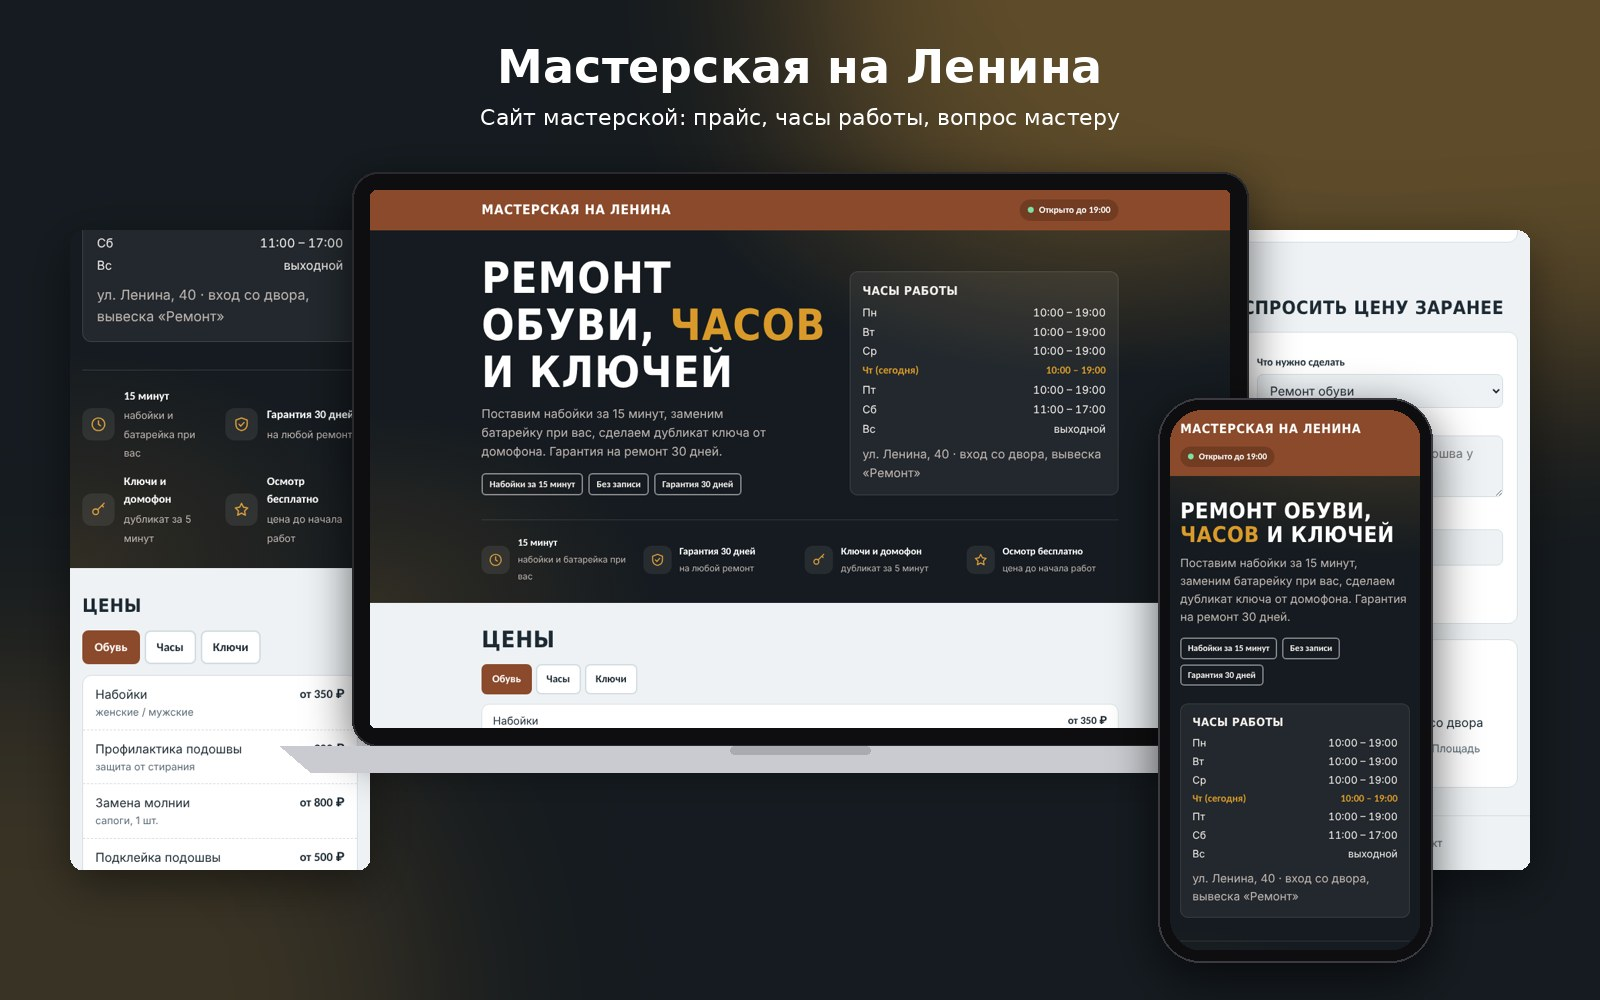
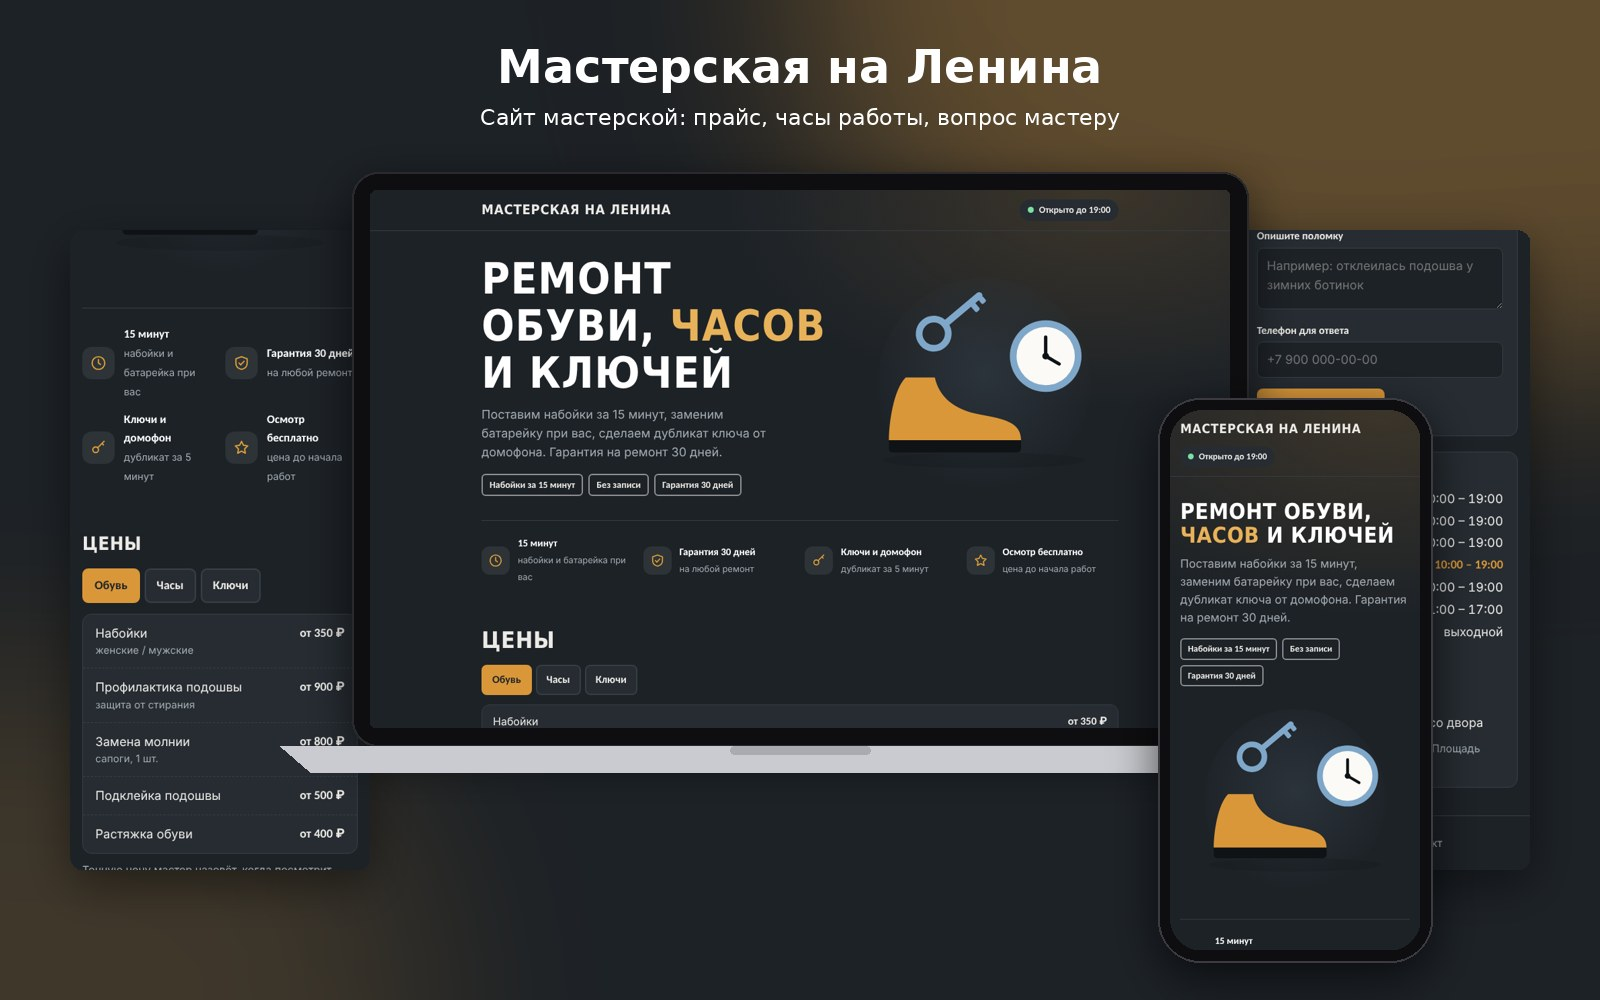
Одна тема на всю страницу, новые иллюстрации
Claude-Session: https://claude.ai/code/session_01JFoXaW88EfvuPr2HYJzWZW

diff --git a/remont/index.html b/remont/index.html
@@ -10,15 +10,13 @@
 <style>
 /* Layout: вывеска мастерской — шапка со статусом «открыто», прайс с вкладками, как сдать вещь, адрес, заявка */
 :root{
-  --bg:#EEF2F4; --surface:#FFFFFF; --fg:#1D2A33; --muted:#5B6B76; --line:#D3DCE1;
-  --accent:#8B4A2B; --accent-ink:#FFFFFF; --amber:#D99A2B; --ok:#2E7D4F;
+  --bg:#1D2227; --surface:#262C32; --fg:#ECEAE6; --muted:#A3ACB3; --line:#353D45;
+  --accent:#D9973A; --accent-ink:#1D2227; --amber:#E8B25A; --ok:#79C59A;
   --display:"Oswald","Arial Narrow",Impact,sans-serif;
   --body:"PT Sans",system-ui,-apple-system,"Segoe UI",sans-serif;
-  color-scheme:light;
+  color-scheme:dark;
 }
-@media (prefers-color-scheme:dark){:root{
-  --bg:#141B20; --surface:#1C252C; --fg:#E8EEF1; --muted:#9CABB5; --line:#2C3943;
-  --accent:#D9895F; --accent-ink:#141B20; --amber:#F0B954; --ok:#6CC495; color-scheme:dark}}
+
 *{box-sizing:border-box}
 html,body{margin:0}
 body{background:var(--bg);color:var(--fg);font-family:var(--body);font-size:16px;line-height:1.55}
@@ -26,11 +24,11 @@ body{background:var(--bg);color:var(--fg);font-family:var(--body);font-size:16px
 h1,h2,h3{font-family:var(--display);font-weight:600;line-height:1.1;margin:0;text-transform:uppercase;letter-spacing:.02em;text-wrap:balance}
 h2{font-size:clamp(24px,4vw,34px)}
 p{margin:0}
-.demo{background:var(--fg);color:var(--bg);text-align:center;font-size:13px;padding-block:6px}
-.sign{background:var(--accent);color:var(--accent-ink)}
+.demo{background:#111518;color:#A3ACB3;text-align:center;font-size:13px;padding-block:6px}
+.sign{background:transparent;color:var(--fg);border-bottom:1px solid var(--line)}
 .sign .wrap{display:flex;justify-content:space-between;align-items:center;gap:12px;flex-wrap:wrap;padding-block:14px}
 .sign .logo{font-family:var(--display);font-size:20px;text-transform:uppercase;letter-spacing:.04em}
-.status{display:inline-flex;align-items:center;gap:8px;font-weight:700;font-size:14px;background:rgba(0,0,0,.18);border-radius:999px;padding:5px 12px}
+.status{display:inline-flex;align-items:center;gap:8px;font-weight:700;font-size:14px;background:var(--surface);border-radius:999px;padding:5px 12px}
 .status i{width:9px;height:9px;border-radius:50%;background:var(--amber)}
 .status.open i{background:#7BE0A4}
 .hero{padding-block:36px 28px;display:grid;grid-template-columns:1.3fr 1fr;gap:28px;align-items:end}
@@ -68,8 +66,7 @@ footer{padding-block:24px;color:var(--muted);font-size:14px;border-top:1px solid
 @media (max-width:720px){.hero,.two{grid-template-columns:1fr}}
 
 /* тёмный первый экран */
-.band{position:relative;color:#F4EFEC;background:radial-gradient(900px 480px at 85% -10%,#E2A33A55,transparent 70%),radial-gradient(600px 400px at 0% 100%,#E2A33A22,transparent 70%),#151B20;
-  --fg:#F4EFEC;--muted:#C2B8B3;--line:rgba(255,255,255,.14);--surface:rgba(255,255,255,.06);overflow:hidden}
+.band{position:relative;background:radial-gradient(800px 460px at 85% 0%,rgba(217,151,58,.16),transparent 70%),var(--bg);color:var(--fg)}
 .band a.btn.ghost,.band .btn.ghost{color:#F4EFEC;border-color:rgba(255,255,255,.35);background:transparent}
 .trust{display:grid;grid-template-columns:repeat(4,minmax(0,1fr));gap:14px;border-top:1px solid var(--line);padding-block:22px 28px;margin-top:8px}
 .trust div{display:flex;gap:12px;align-items:center;min-width:0}
@@ -84,6 +81,7 @@ footer{padding-block:24px;color:var(--muted);font-size:14px;border-top:1px solid
 .band .hours .today{color:var(--amber)}
 .band .hero h1{color:#fff}.band .hero h1 span{color:var(--amber)}
 .tool{position:absolute;right:-40px;top:40px;width:420px;opacity:.07;pointer-events:none}
+.art .illus{width:100%;max-width:440px;display:block;margin:0 auto}
 </style>
 </head>
 <body>
@@ -101,11 +99,16 @@ footer{padding-block:24px;color:var(--muted);font-size:14px;border-top:1px solid
       <p>Поставим набойки за 15 минут, заменим батарейку при вас, сделаем дубликат ключа от домофона. Гарантия на ремонт 30 дней.</p>
       <div class="tags"><span>Набойки за 15 минут</span><span>Без записи</span><span>Гарантия 30 дней</span></div>
     </div>
-    <div class="card">
-      <h3 style="font-size:18px;margin-bottom:10px">Часы работы</h3>
-      <div class="hours" id="hours"></div>
-      <p class="note">ул. Ленина, 40 · вход со двора, вывеска «Ремонт»</p>
-    </div>
+    <div class="art"><svg class="illus" viewBox="0 0 480 400" xmlns="http://www.w3.org/2000/svg" aria-hidden="true">
+<defs><radialGradient id="g523757" cx="50%" cy="45%" r="55%"><stop offset="0" stop-color="#2B333B" stop-opacity="1"/><stop offset="1" stop-color="#2B333B" stop-opacity="0"/></radialGradient></defs>
+<circle cx="240" cy="200" r="190" fill="url(#g523757)"/>
+<ellipse cx="240" cy="336" rx="180" ry="14" fill="#0F1316" opacity=".2"/>
+<path d="M70 300c0-30 8-90 30-112h52c8 36 36 58 80 66c44 8 74 14 74 46z" fill="#D9973A"/>
+<path d="M70 300h236v14q0 8-8 8h-220q-8 0-8-8z" fill="#0F1316"/>
+<circle cx="350" cy="150" r="64" fill="#7FA7C9"/><circle cx="350" cy="150" r="52" fill="#FBFAF7"/>
+<path d="M350 150v-34M350 150l24 14" stroke="#0F1316" stroke-width="6" stroke-linecap="round"/><circle cx="350" cy="150" r="6" fill="#0F1316"/>
+<g transform="rotate(-40 150 110)"><circle cx="150" cy="110" r="26" fill="none" stroke="#7FA7C9" stroke-width="12"/><rect x="172" y="104" width="90" height="12" rx="6" fill="#7FA7C9"/>
+<rect x="232" y="114" width="10" height="16" rx="3" fill="#7FA7C9"/><rect x="250" y="114" width="10" height="12" rx="3" fill="#7FA7C9"/></g></svg></div>
   </div>
   <div class="trust"><div><i><svg viewBox="0 0 24 24"><circle cx="12" cy="12" r="9"/><path d="M12 7v5l3 2"/></svg></i><p style="margin:0"><b>15 минут</b><span>набойки и батарейка при вас</span></p></div><div><i><svg viewBox="0 0 24 24"><path d="M12 3l8 3v6c0 5-3.5 8-8 9-4.5-1-8-4-8-9V6z"/><path d="M8.5 12l2.5 2.5 4.5-5"/></svg></i><p style="margin:0"><b>Гарантия 30 дней</b><span>на любой ремонт</span></p></div><div><i><svg viewBox="0 0 24 24"><circle cx="8" cy="15" r="4"/><path d="M11 12l9-9M17 6l2 2"/></svg></i><p style="margin:0"><b>Ключи и домофон</b><span>дубликат за 5 минут</span></p></div><div><i><svg viewBox="0 0 24 24"><path d="M12 3l2.7 5.6 6.1.9-4.4 4.3 1 6.1L12 17l-5.4 2.9 1-6.1L3.2 9.5l6.1-.9z"/></svg></i><p style="margin:0"><b>Осмотр бесплатно</b><span>цена до начала работ</span></p></div></div>
 </div></div>
@@ -140,6 +143,8 @@ footer{padding-block:24px;color:var(--muted);font-size:14px;border-top:1px solid
       <div class="done" id="done" hidden></div>
     </form>
     <div class="card">
+      <h3 style="font-size:18px">Часы работы</h3>
+      <div class="hours" id="hours" style="margin-block:10px 16px"></div>
       <h3 style="font-size:18px">Контакты</h3>
       <p style="margin-top:8px">Телефон: +7 900 000-00-00 (вымышленный)</p>
       <p>Адрес: ул. Ленина, 40, вход со двора</p>

diff --git a/tort/index.html b/tort/index.html
@@ -16,14 +16,8 @@
   --display:"Unbounded","Arial Black",system-ui,sans-serif;
   --body:"Manrope",system-ui,-apple-system,"Segoe UI",sans-serif;
 }
-@media (prefers-color-scheme:dark){:root:not([data-theme="light"]){
-  --bg:#1C1419; --surface:#271C23; --fg:#F5EAF0; --muted:#B9A3B0;
-  --accent:#F06292; --accent-ink:#1C1419; --pista:#9CC488; --line:#3A2B34;
-  --cream:#3A2731; --choc:#8A5A44; color-scheme:dark}}
-:root[data-theme="dark"]{
-  --bg:#1C1419; --surface:#271C23; --fg:#F5EAF0; --muted:#B9A3B0;
-  --accent:#F06292; --accent-ink:#1C1419; --pista:#9CC488; --line:#3A2B34;
-  --cream:#3A2731; --choc:#8A5A44; color-scheme:dark}
+
+
 *{box-sizing:border-box}
 html,body{margin:0}
 body{background:var(--bg);color:var(--fg);font-family:var(--body);font-size:16px;line-height:1.55}
@@ -40,7 +34,7 @@ header.top{padding-block:16px;display:flex;justify-content:space-between;align-i
 .btn:focus-visible,input:focus-visible,select:focus-visible{outline:3px solid var(--pista);outline-offset:2px}
 .btn.ghost{background:transparent;color:var(--fg);border:2px solid var(--line)}
 .hero{display:grid;grid-template-columns:1.2fr 1fr;gap:32px;align-items:center;padding-block:40px 40px}
-.hero h1{color:#fff}
+
 .hero h1{font-size:clamp(32px,6vw,58px)}
 .hero h1 em{font-style:normal;color:var(--accent)}
 .hero p.lead{color:var(--muted);font-size:18px;margin-top:16px;max-width:34ch}
@@ -97,16 +91,16 @@ footer{border-top:1px solid var(--line);padding-block:24px;color:var(--muted);fo
 @keyframes bob{50%{transform:translateY(-3px)}}
 
 /* тёмный первый экран */
-.band{position:relative;color:#F4EFEC;background:radial-gradient(900px 480px at 85% -10%,#E2457F55,transparent 70%),radial-gradient(600px 400px at 0% 100%,#E2457F22,transparent 70%),#1B1216;
-  --fg:#F4EFEC;--muted:#C2B8B3;--line:rgba(255,255,255,.14);--surface:rgba(255,255,255,.06);overflow:hidden}
-.band a.btn.ghost,.band .btn.ghost{color:#F4EFEC;border-color:rgba(255,255,255,.35);background:transparent}
+.band{position:relative;background:radial-gradient(800px 460px at 85% 0%,#F7D3E1,transparent 70%),var(--bg);color:var(--fg);--surface:#FFFFFF}
+.band .btn.ghost{color:var(--fg);border-color:var(--line);background:#fff}
 .trust{display:grid;grid-template-columns:repeat(4,minmax(0,1fr));gap:14px;border-top:1px solid var(--line);padding-block:22px 28px;margin-top:8px}
 .trust div{display:flex;gap:12px;align-items:center;min-width:0}
-.trust i{flex:none;width:42px;height:42px;border-radius:12px;background:rgba(255,255,255,.08);display:grid;place-items:center}
+.trust i{flex:none;width:42px;height:42px;border-radius:12px;background:#fff;box-shadow:0 4px 14px rgba(194,24,91,.10);display:grid;place-items:center}
 .trust svg{width:22px;height:22px;fill:none;stroke:#E2457F;stroke-width:1.8;stroke-linecap:round;stroke-linejoin:round}
-.trust b{display:block;font-size:15px;color:#fff}
+.trust b{display:block;font-size:15px;color:var(--fg)}
 .trust span{font-size:13px;color:var(--muted)}
 @media (max-width:720px){.trust{grid-template-columns:repeat(2,minmax(0,1fr))}}
+.art .illus{width:100%;max-width:460px;display:block;margin:0 auto}
 </style>
 
 </head>
@@ -133,12 +127,20 @@ footer{border-top:1px solid var(--line);padding-block:24px;color:var(--muted);fo
         <div><b>5 начинок</b>на выбор</div>
       </div>
     </div>
-    <div class="cake" aria-hidden="true">
-      <div class="tier t3"><span class="drip"></span><i class="berry" style="left:20px"></i><i class="berry" style="left:46px"></i><i class="berry" style="left:72px"></i></div>
-      <div class="tier t2"><span class="drip"></span><i class="berry" style="left:24px"></i><i class="berry" style="left:128px"></i></div>
-      <div class="tier t1"><span class="drip"></span></div>
-      <div class="plate"></div>
-    </div>
+    <div class="art"><svg class="illus" viewBox="0 0 480 400" xmlns="http://www.w3.org/2000/svg" aria-hidden="true">
+<defs><radialGradient id="g917125" cx="50%" cy="45%" r="55%"><stop offset="0" stop-color="#F6E3EA" stop-opacity="1"/><stop offset="1" stop-color="#F6E3EA" stop-opacity="0"/></radialGradient></defs>
+<circle cx="240" cy="200" r="190" fill="url(#g917125)"/>
+<ellipse cx="240" cy="338" rx="150" ry="16" fill="#2B1D29" opacity=".18"/>
+<rect x="96" y="318" width="288" height="14" rx="7" fill="#E9E2DE"/>
+<rect x="120" y="226" width="240" height="96" rx="16" fill="#FFF7F2"/>
+<path d="M120 238q20 26 40 0t40 0t40 0t40 0t40 0t40 0v-12h-240z" fill="#5A3426"/>
+<rect x="120" y="296" width="240" height="26" rx="8" fill="#C2185B" opacity=".9"/>
+<rect x="150" y="150" width="180" height="84" rx="14" fill="#C2185B"/>
+<path d="M150 160q18 22 36 0t36 0t36 0t36 0t36 0v-10h-180z" fill="#5A3426"/>
+<rect x="190" y="104" width="100" height="54" rx="12" fill="#FFF7F2"/>
+<circle cx="205" cy="108" r="9" fill="#C2185B"/><circle cx="202" cy="105" r="2.5" fill="#fff" opacity=".6"/><circle cx="232" cy="100" r="9" fill="#C2185B"/><circle cx="229" cy="97" r="2.5" fill="#fff" opacity=".6"/><circle cx="259" cy="104" r="9" fill="#C2185B"/><circle cx="256" cy="101" r="2.5" fill="#fff" opacity=".6"/><circle cx="285" cy="110" r="9" fill="#C2185B"/><circle cx="282" cy="107" r="2.5" fill="#fff" opacity=".6"/><rect x="222" y="66" width="8" height="34" rx="3" fill="#6E9A5C"/><path d="M226 52c6 6 4 12 0 14c-4-2-6-8 0-14z" fill="#F6B44A"/><rect x="248" y="66" width="8" height="34" rx="3" fill="#6E9A5C"/><path d="M252 52c6 6 4 12 0 14c-4-2-6-8 0-14z" fill="#F6B44A"/>
+<path d="M392 120l6 14 14 6-14 6-6 14-6-14-14-6 14-6z" fill="#6E9A5C" opacity=".9"/>
+<path d="M92 170l4 9 9 4-9 4-4 9-4-9-9-4 9-4z" fill="#C2185B" opacity=".7"/></svg></div>
   </div>
   <div class="trust"><div><i><svg viewBox="0 0 24 24"><path d="M5 19c0-8 6-14 15-14 0 9-6 15-14 15"/><path d="M5 19l7-7"/></svg></i><p style="margin:0"><b>Натуральный состав</b><span>масло, сливки, ягоды</span></p></div><div><i><svg viewBox="0 0 24 24"><circle cx="12" cy="12" r="9"/><path d="M12 7v5l3 2"/></svg></i><p style="margin:0"><b>Заказ за 3 дня</b><span>или срочно по договорённости</span></p></div><div><i><svg viewBox="0 0 24 24"><path d="M3 6h11v9H3zM14 9h4l3 3v3h-7"/><circle cx="7" cy="17" r="2"/><circle cx="17" cy="17" r="2"/></svg></i><p style="margin:0"><b>Доставка 300 ₽</b><span>по городу в день праздника</span></p></div><div><i><svg viewBox="0 0 24 24"><path d="M4 5h16v11H9l-5 4z"/></svg></i><p style="margin:0"><b>Ответ за час</b><span>в Telegram и WhatsApp</span></p></div></div>
 </div></div>

diff --git a/nogti/index.html b/nogti/index.html
@@ -10,15 +10,13 @@
 <style>
 /* Layout: премиальная студия — крупная типографика, палитра оттенков лака, услуги, онлайн-запись по шагам, работы, мастера, FAQ */
 :root{
-  --bg:#F6F3F1; --surface:#FFFFFF; --fg:#2B2230; --muted:#6F6573; --line:#E4DCE0;
-  --accent:#7A3E6E; --accent-ink:#FFFFFF; --sage:#8FA487; --soft:#EFE6EC;
+  --bg:#1F1A21; --surface:#29222C; --fg:#F2EAF0; --muted:#B7A8B3; --line:#3A3140;
+  --accent:#D48AC0; --accent-ink:#1F1A21; --sage:#9FBF97; --soft:#342A37;
   --display:"Cormorant","Georgia","Times New Roman",serif;
   --body:"Manrope",system-ui,-apple-system,"Segoe UI",sans-serif;
-  color-scheme:light;
+  color-scheme:dark;
 }
-@media (prefers-color-scheme:dark){:root{
-  --bg:#1A1519; --surface:#241D23; --fg:#F1E9EE; --muted:#B3A6AF; --line:#3A2F38;
-  --accent:#D59BC7; --accent-ink:#1A1519; --sage:#A9BFA1; --soft:#34262F; color-scheme:dark}}
+
 *{box-sizing:border-box}
 html,body{margin:0}
 html{scroll-behavior:smooth}
@@ -30,7 +28,7 @@ h2{font-size:clamp(34px,5.5vw,52px)}
 h2 em,h1 em{font-style:italic;color:var(--accent)}
 p{margin:0}
 .eyebrow{font-size:12px;text-transform:uppercase;letter-spacing:.14em;color:var(--muted);font-weight:700}
-.demo{background:var(--fg);color:var(--bg);text-align:center;font-size:13px;padding-block:6px}
+.demo{background:#151116;color:#B7A8B3;text-align:center;font-size:13px;padding-block:6px}
 nav.top{position:sticky;top:env(safe-area-inset-top,0px);z-index:5;background:color-mix(in srgb,var(--bg) 88%,transparent);backdrop-filter:blur(8px);border-bottom:1px solid var(--line)}
 nav.top .wrap{display:flex;justify-content:space-between;align-items:center;gap:12px;padding-block:12px}
 .logo{font-family:var(--display);font-size:24px;font-weight:600}
@@ -126,8 +124,7 @@ footer{border-top:1px solid var(--line);padding-block:24px;color:var(--muted);fo
 @media (max-width:520px){.fields{grid-template-columns:1fr}.palette{gap:8px}}
 
 /* тёмный первый экран */
-.band{position:relative;color:#F4EFEC;background:radial-gradient(900px 480px at 85% -10%,#D07AB855,transparent 70%),radial-gradient(600px 400px at 0% 100%,#D07AB822,transparent 70%),#1A1319;
-  --fg:#F4EFEC;--muted:#C2B8B3;--line:rgba(255,255,255,.14);--surface:rgba(255,255,255,.06);overflow:hidden}
+.band{position:relative;background:radial-gradient(800px 460px at 85% 0%,rgba(212,138,192,.18),transparent 70%),var(--bg);color:var(--fg)}
 .band a.btn.ghost,.band .btn.ghost{color:#F4EFEC;border-color:rgba(255,255,255,.35);background:transparent}
 .trust{display:grid;grid-template-columns:repeat(4,minmax(0,1fr));gap:14px;border-top:1px solid var(--line);padding-block:22px 28px;margin-top:8px}
 .trust div{display:flex;gap:12px;align-items:center;min-width:0}
@@ -142,6 +139,8 @@ footer{border-top:1px solid var(--line);padding-block:24px;color:var(--muted);fo
 .band .hero h1{color:#fff}.band .hero h1 em{color:#E7A6D6}
 .band .eyebrow{color:#C9B3C2}
 .band .facts b{color:#fff}
+.art .illus{width:100%;max-width:460px;display:block;margin:0 auto}
+.hero>*{min-width:0}
 </style>
 </head>
 <body>
@@ -165,12 +164,19 @@ footer{border-top:1px solid var(--line);padding-block:24px;color:var(--muted);fo
       <div><b>120+</b><span>оттенков в палитре</span></div>
     </div>
   </div>
-  <div class="palette" aria-hidden="true">
-    <div class="bottle" style="background:#7A3E6E"><span>№ 14</span></div>
-    <div class="bottle" style="background:#C98E86"><span>№ 03</span></div>
-    <div class="bottle" style="background:#8FA487"><span>№ 27</span></div>
-    <div class="bottle" style="background:#2B2230;box-shadow:inset 0 0 0 1px rgba(255,255,255,.25)"><span>№ 40</span></div>
-  </div>
+  <div class="art"><svg class="illus" viewBox="0 0 480 400" xmlns="http://www.w3.org/2000/svg" aria-hidden="true">
+<defs><radialGradient id="g993989" cx="50%" cy="45%" r="55%"><stop offset="0" stop-color="#342A37" stop-opacity="1"/><stop offset="1" stop-color="#342A37" stop-opacity="0"/></radialGradient></defs>
+<circle cx="240" cy="200" r="190" fill="url(#g993989)"/>
+<ellipse cx="240" cy="318" rx="170" ry="14" fill="#120E13" opacity=".18"/>
+<rect x="124" y="98" width="28" height="52" rx="6" fill="#120E13"/>
+<path d="M108 162q0-14 14-14h32q14 0 14 14v126q0 12-12 12h-36q-12 0-12-12z" fill="#D48AC0"/>
+<rect x="118" y="170" width="8" height="100" rx="4" fill="#fff" opacity=".35"/><rect x="212" y="68" width="28" height="52" rx="6" fill="#120E13"/>
+<path d="M196 132q0-14 14-14h32q14 0 14 14v156q0 12-12 12h-36q-12 0-12-12z" fill="#9FBF97"/>
+<rect x="206" y="140" width="8" height="130" rx="4" fill="#fff" opacity=".35"/><rect x="300" y="108" width="28" height="52" rx="6" fill="#120E13"/>
+<path d="M284 172q0-14 14-14h32q14 0 14 14v116q0 12-12 12h-36q-12 0-12-12z" fill="#D9A79B"/>
+<rect x="294" y="180" width="8" height="90" rx="4" fill="#fff" opacity=".35"/>
+<circle cx="372" cy="150" r="26" fill="#D48AC0" opacity=".9"/><circle cx="398" cy="196" r="18" fill="#9FBF97"/><circle cx="360" cy="226" r="12" fill="#D9A79B"/>
+<path d="M86 120l5 11 11 5-11 5-5 11-5-11-11-5 11-5z" fill="#9FBF97"/></svg></div>
 </header>
 <div class="wrap"><div class="trust"><div><i><svg viewBox="0 0 24 24"><path d="M12 3l8 3v6c0 5-3.5 8-8 9-4.5-1-8-4-8-9V6z"/><path d="M8.5 12l2.5 2.5 4.5-5"/></svg></i><p style="margin:0"><b>Стерильно</b><span>крафт-пакет вскрываем при вас</span></p></div><div><i><svg viewBox="0 0 24 24"><path d="M12 3l2.7 5.6 6.1.9-4.4 4.3 1 6.1L12 17l-5.4 2.9 1-6.1L3.2 9.5l6.1-.9z"/></svg></i><p style="margin:0"><b>Гарантия 7 дней</b><span>исправим сколы бесплатно</span></p></div><div><i><svg viewBox="0 0 24 24"><circle cx="12" cy="12" r="9"/><path d="M12 7v5l3 2"/></svg></i><p style="margin:0"><b>Запись онлайн</b><span>свободное время сразу видно</span></p></div><div><i><svg viewBox="0 0 24 24"><path d="M12 3v6M12 15v6M3 12h6M15 12h6"/></svg></i><p style="margin:0"><b>120+ оттенков</b><span>и дизайн по вашей картинке</span></p></div></div></div>
 </div>
